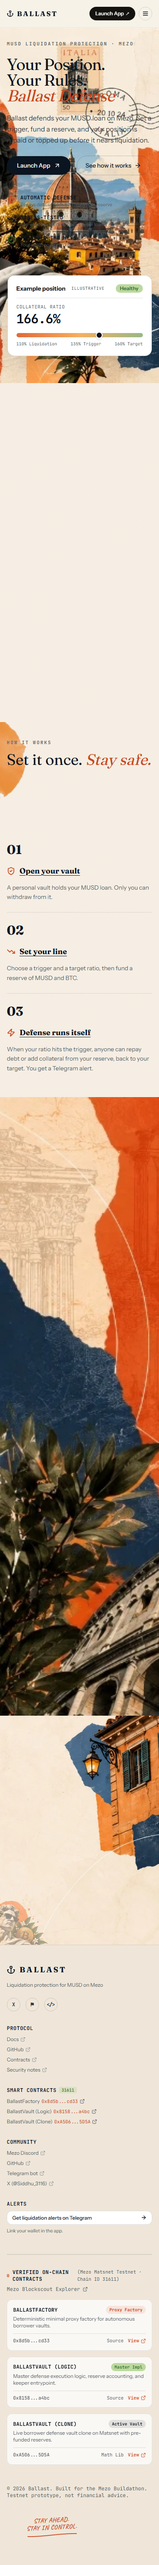
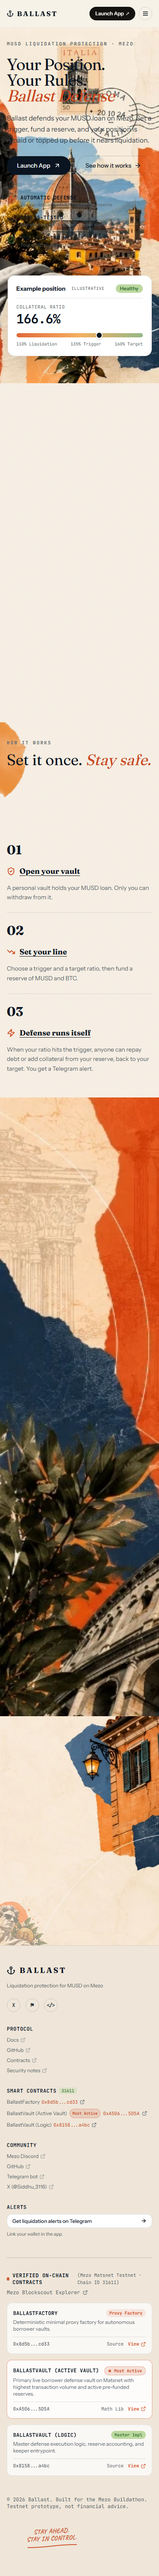
feat(landing): elevate active vault contract to position #2 with Most Active highlight badge
- Promoted BallastVault instance (0xA506...5D5A) to #2 position across landing cards and footer list
- Replaced clone designation with 'BallastVault (Active Vault)' and '★ Most Active' badge
- Added subtle terracotta accent border to highlight highest-volume contract
- Reordered core contracts table in README.md accordingly

diff --git a/apps/web/src/app/page.tsx b/apps/web/src/app/page.tsx
@@ -1217,6 +1217,23 @@ export default function LandingPage() {
                 </li>
                 <li>
                   <a
+                    href={`https://explorer.test.mezo.org/address/${MATSNET_DEPLOYMENT.sampleVault}`}
+                    target="_blank"
+                    rel="noreferrer"
+                    className="hover:text-[#0A1521] transition-colors inline-flex items-center gap-1.5 group/c"
+                  >
+                    <span>BallastVault (Active Vault)</span>
+                    <span className="text-[9px] font-mono font-semibold px-1.5 py-0.5 rounded-full bg-[#CA461E]/15 text-[#CA461E] border border-[#CA461E]/30">
+                      Most Active
+                    </span>
+                    <span className="font-mono text-[11px] text-[#CA461E] group-hover/c:underline">
+                      0xA506...5D5A
+                    </span>
+                    <ExternalLink className="w-3 h-3 text-[#525C66] group-hover/c:text-[#CA461E]" />
+                  </a>
+                </li>
+                <li>
+                  <a
                     href={`https://explorer.test.mezo.org/address/${MATSNET_DEPLOYMENT.ballastVaultImplementation}`}
                     target="_blank"
                     rel="noreferrer"
@@ -1225,20 +1242,6 @@ export default function LandingPage() {
                     <span>BallastVault (Logic)</span>
                     <span className="font-mono text-[11px] text-[#CA461E] group-hover/c:underline">
                       0x8158...a4bc
-                    </span>
-                    <ExternalLink className="w-3 h-3 text-[#525C66] group-hover/c:text-[#CA461E]" />
-                  </a>
-                </li>
-                <li>
-                  <a
-                    href={`https://explorer.test.mezo.org/address/${MATSNET_DEPLOYMENT.sampleVault}`}
-                    target="_blank"
-                    rel="noreferrer"
-                    className="hover:text-[#0A1521] transition-colors inline-flex items-center gap-1 group/c"
-                  >
-                    <span>BallastVault (Clone)</span>
-                    <span className="font-mono text-[11px] text-[#CA461E] group-hover/c:underline">
-                      0xA506...5D5A
                     </span>
                     <ExternalLink className="w-3 h-3 text-[#525C66] group-hover/c:text-[#CA461E]" />
                   </a>
@@ -1359,7 +1362,48 @@ export default function LandingPage() {
                 </div>
               </div>
 
-              {/* Contract 2: BallastVault Implementation */}
+              {/* Contract 2: Active Borrower Vault (Most Active) */}
+              <div className="p-3.5 rounded-xl border border-[#CA461E]/30 bg-white/85 backdrop-blur-sm shadow-xs flex flex-col justify-between hover:border-[#CA461E] transition-all ring-1 ring-[#CA461E]/15">
+                <div>
+                  <div className="flex items-center justify-between gap-2 mb-1">
+                    <span className="font-mono text-xs font-bold text-[#0A1521] uppercase tracking-wide">
+                      BallastVault (Active Vault)
+                    </span>
+                    <span className="text-[10px] font-mono px-2 py-0.5 rounded-full bg-[#CA461E]/15 text-[#CA461E] font-semibold border border-[#CA461E]/30 flex items-center gap-1">
+                      ★ Most Active
+                    </span>
+                  </div>
+                  <p className="text-xs font-sans text-[#525C66] mb-2.5">
+                    Primary live borrower defense vault on Matsnet with highest transaction volume and active pre-funded reserves.
+                  </p>
+                </div>
+                <div className="pt-2 border-t border-[#0A1521]/08 flex items-center justify-between">
+                  <span className="font-mono text-[11px] text-[#0A1521]/80">
+                    0xA506...5D5A
+                  </span>
+                  <div className="flex items-center gap-2.5">
+                    <a
+                      href="https://github.com/SIDDHUX9/BALLAST/blob/main/packages/contracts/src/libraries/BallastMath.sol"
+                      target="_blank"
+                      rel="noreferrer"
+                      className="text-[11px] font-mono text-[#525C66] hover:text-[#0A1521] transition-colors"
+                    >
+                      Math Lib
+                    </a>
+                    <a
+                      href={`https://explorer.test.mezo.org/address/${MATSNET_DEPLOYMENT.sampleVault}`}
+                      target="_blank"
+                      rel="noreferrer"
+                      className="inline-flex items-center gap-1 text-[11px] font-mono font-medium text-[#CA461E] hover:underline"
+                    >
+                      <span>View</span>
+                      <ExternalLink className="w-3 h-3" />
+                    </a>
+                  </div>
+                </div>
+              </div>
+
+              {/* Contract 3: BallastVault Implementation */}
               <div className="p-3.5 rounded-xl border border-[#0A1521]/10 bg-white/70 backdrop-blur-sm shadow-xs flex flex-col justify-between hover:border-[#CA461E]/40 transition-all">
                 <div>
                   <div className="flex items-center justify-between gap-2 mb-1">
@@ -1389,47 +1433,6 @@ export default function LandingPage() {
                     </a>
                     <a
                       href={`https://explorer.test.mezo.org/address/${MATSNET_DEPLOYMENT.ballastVaultImplementation}`}
-                      target="_blank"
-                      rel="noreferrer"
-                      className="inline-flex items-center gap-1 text-[11px] font-mono font-medium text-[#CA461E] hover:underline"
-                    >
-                      <span>View</span>
-                      <ExternalLink className="w-3 h-3" />
-                    </a>
-                  </div>
-                </div>
-              </div>
-
-              {/* Contract 3: Active Borrower Vault Clone */}
-              <div className="p-3.5 rounded-xl border border-[#0A1521]/10 bg-white/70 backdrop-blur-sm shadow-xs flex flex-col justify-between hover:border-[#CA461E]/40 transition-all">
-                <div>
-                  <div className="flex items-center justify-between gap-2 mb-1">
-                    <span className="font-mono text-xs font-bold text-[#0A1521] uppercase tracking-wide">
-                      BallastVault (Clone)
-                    </span>
-                    <span className="text-[10px] font-mono px-2 py-0.5 rounded-full bg-[#0A1521]/10 text-[#0A1521] font-semibold">
-                      Active Vault
-                    </span>
-                  </div>
-                  <p className="text-xs font-sans text-[#525C66] mb-2.5">
-                    Live borrower defense vault clone on Matsnet with pre-funded reserves.
-                  </p>
-                </div>
-                <div className="pt-2 border-t border-[#0A1521]/08 flex items-center justify-between">
-                  <span className="font-mono text-[11px] text-[#0A1521]/80">
-                    0xA506...5D5A
-                  </span>
-                  <div className="flex items-center gap-2.5">
-                    <a
-                      href="https://github.com/SIDDHUX9/BALLAST/blob/main/packages/contracts/src/libraries/BallastMath.sol"
-                      target="_blank"
-                      rel="noreferrer"
-                      className="text-[11px] font-mono text-[#525C66] hover:text-[#0A1521] transition-colors"
-                    >
-                      Math Lib
-                    </a>
-                    <a
-                      href={`https://explorer.test.mezo.org/address/${MATSNET_DEPLOYMENT.sampleVault}`}
                       target="_blank"
                       rel="noreferrer"
                       className="inline-flex items-center gap-1 text-[11px] font-mono font-medium text-[#CA461E] hover:underline"

diff --git a/README.MD b/README.MD
@@ -130,8 +130,8 @@ All Ballast core contracts are deployed, active, and verified on **Mezo Matsnet 
 | Contract Name | Role / Purpose | Deployed Address | Explorer Link | Source File |
 | :--- | :--- | :--- | :--- | :--- |
 | **`BallastFactory`** | Deterministic minimal proxy factory | `0x8d5b392839300b487addeecc35f5bc534111cd33` | [View on Explorer](https://explorer.test.mezo.org/address/0x8d5b392839300b487addeecc35f5bc534111cd33) | [`BallastFactory.sol`](./packages/contracts/src/BallastFactory.sol) |
+| **`BallastVault`** *(Active Vault &bull; Most Active)* | Primary live borrower defense vault (highest transaction volume on Matsnet) | `0xA506b2250B85A0c7dE80DD313A0Db9cD8a655D5A` | [View on Explorer](https://explorer.test.mezo.org/address/0xA506b2250B85A0c7dE80DD313A0Db9cD8a655D5A) | [Verified Tx](https://explorer.test.mezo.org/tx/0xa668c363368da7af882524f60198bda8051fd6940f95a1e7dab4f5f8d80d72ca) |
 | **`BallastVault`** *(Logic)* | Master implementation for defense logic & reserves | `0x815893bad1708a201eeeaf226eed576a7ffea4bc` | [View on Explorer](https://explorer.test.mezo.org/address/0x815893bad1708a201eeeaf226eed576a7ffea4bc) | [`BallastVault.sol`](./packages/contracts/src/BallastVault.sol) |
-| **`BallastVault`** *(Clone)* | Sample verified active borrower vault | `0xA506b2250B85A0c7dE80DD313A0Db9cD8a655D5A` | [View on Explorer](https://explorer.test.mezo.org/address/0xA506b2250B85A0c7dE80DD313A0Db9cD8a655D5A) | [Clone Tx](https://explorer.test.mezo.org/tx/0xa668c363368da7af882524f60198bda8051fd6940f95a1e7dab4f5f8d80d72ca) |
 | **`BallastMath`** | Pure 1e18 fixed-point math library | *Linked Library* | [View Contract](#mathematical-formulation) | [`BallastMath.sol`](./packages/contracts/src/libraries/BallastMath.sol) |
 
 ### Mezo Protocol Canonical Dependencies
